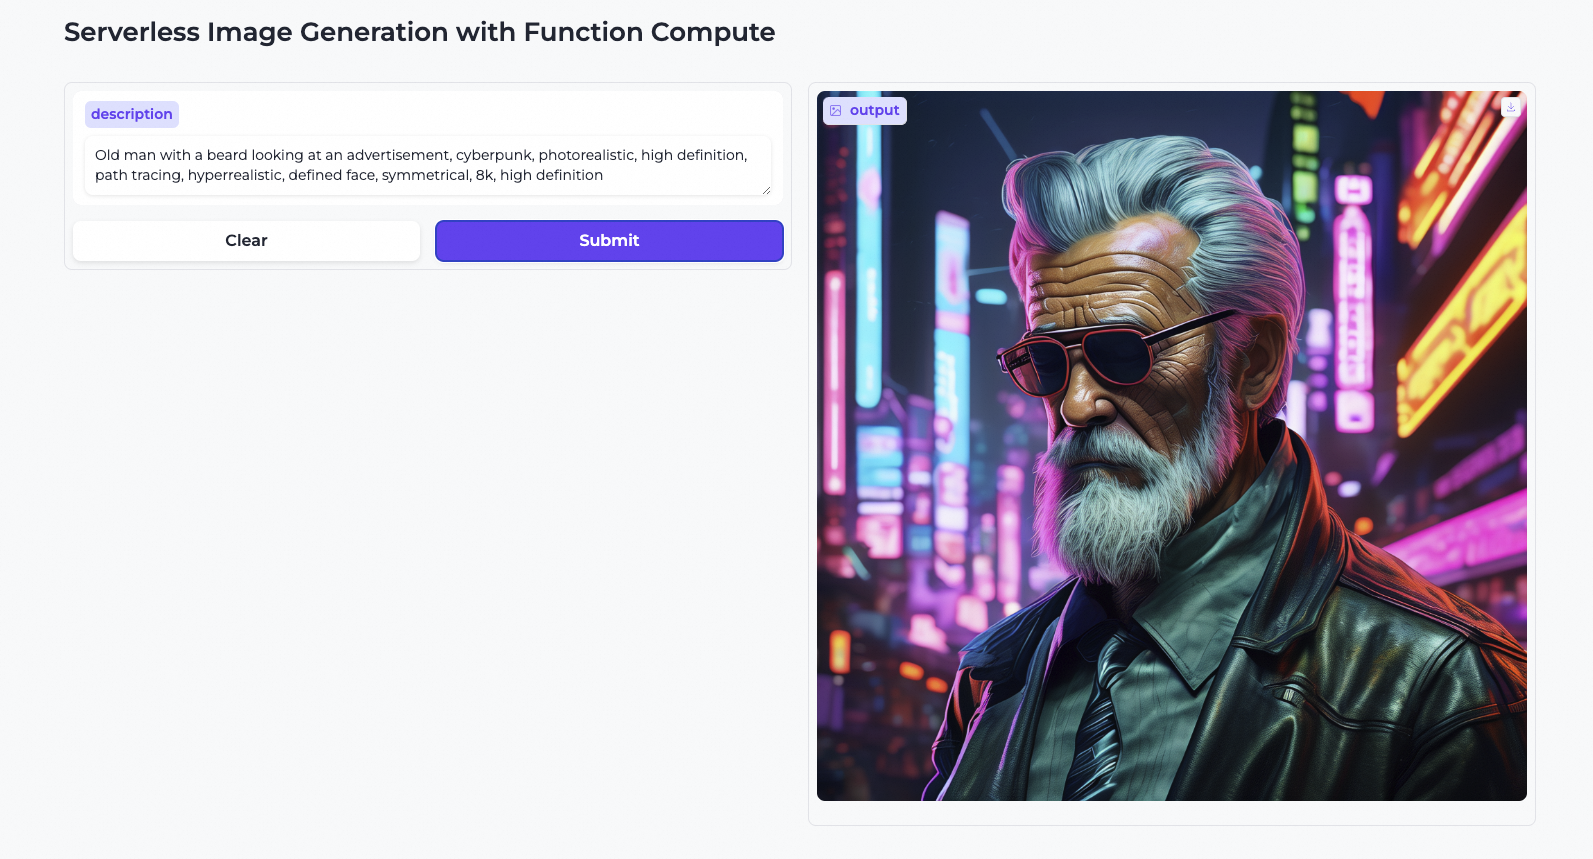
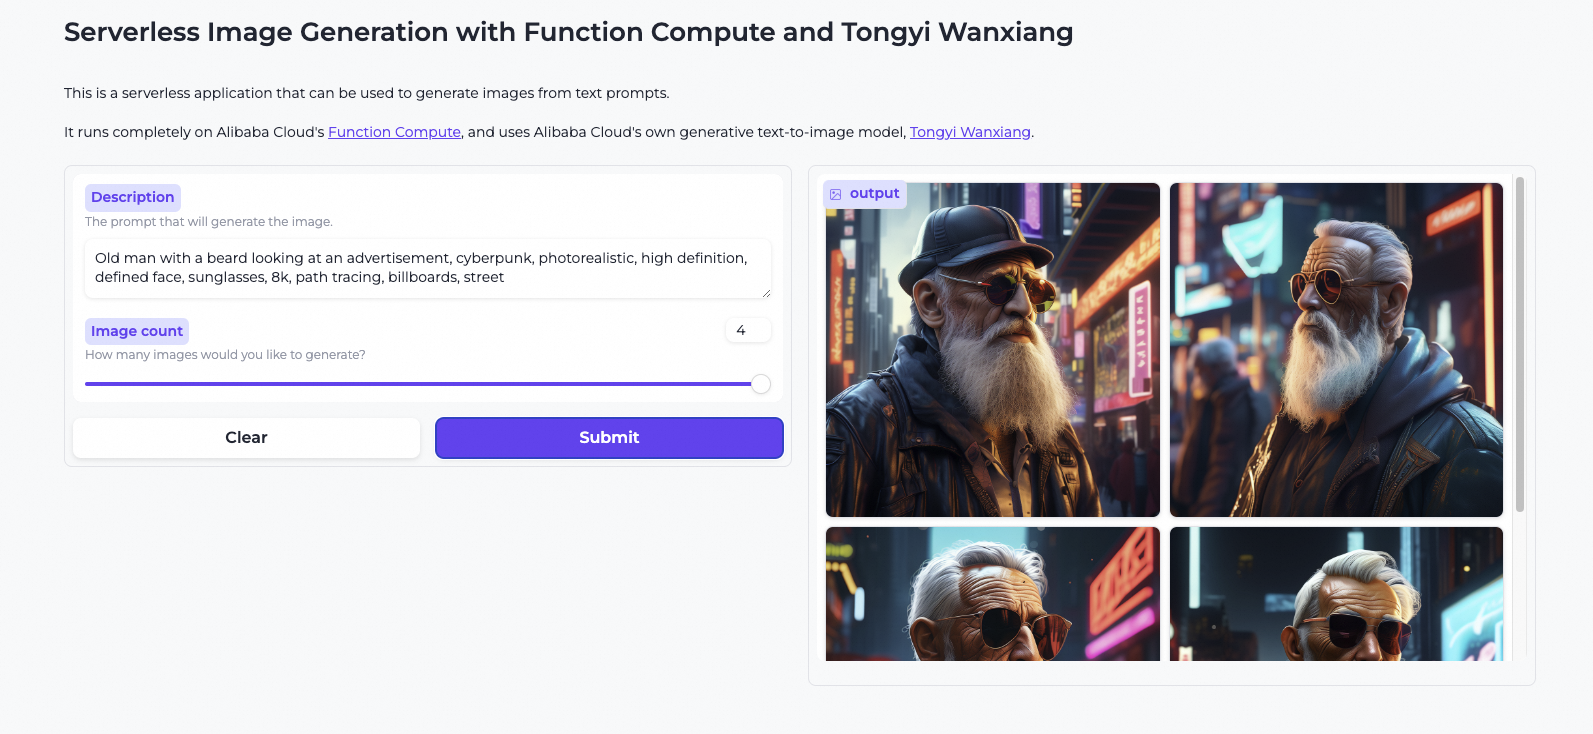
docs: update README

diff --git a/README.md b/README.md
@@ -1,8 +1,9 @@
-# Serverless Image Generation with Function Compute
+# Serverless Image Generation with Function Compute and Tongyi Wanxiang
+
 ![Example prompt](example.png)
 This is a serverless application that can be used to generate images from text prompts. It runs completely on Alibaba Cloud's [Function Compute](https://www.alibabacloud.com/product/function-compute).
 
-This project uses DashScope, Alibaba Cloud's Model as a Service (MaaS) platform, in combination with Alibaba Cloud's own generative text-to-image model, [Tongyi Wanxiang](https://www.alibabacloud.com/blog/alibaba-cloud-unveils-ai-image-generation-model-tongyi-wanxiang-to-help-businesses-to-unleash-creativity-and-productivity_600170).
+This project uses DashScope, Alibaba Cloud's Model as a Service (MaaS) platform, in combination with Alibaba Cloud's own generative text-to-image model, [Tongyi Wanxiang](https://tongyi.aliyun.com/wanxiang/).
 
 Looking for a live demo? Click [here](https://genaiwithali.cloud/).
 
@@ -18,10 +19,12 @@ You can also directly install the dependencies on your host machine with the fol
 ### Setting up environment variables
 A DashScope API key is needed. Currently, DashScope is only available to users with an Alibaba Cloud domestic account, but an international version is being worked on. You can apply for an API key [here](https://dashscope.console.aliyun.com/apiKey).
 
+#### Local development
 For local development, set an environment variable called `DASHSCOPE_API_KEY` as follows:
 
 `export DASHSCOPE_API_KEY=<YOUR API KEY>`
 
+#### Deploying to your own Alibaba Cloud account
 If you want to use the application in your own Alibaba Cloud account, you will need to deploy the application using the provided Terraform stack, which will automatically create a secret parameter called `serverless-image-generation/dashscope-api-key`. Replace the placeholder variable in this parameter with your API key using the Alibaba Cloud console or the CLI.
 
 ### Launching the application
@@ -32,10 +35,13 @@ You can launch the application with the following command:
 You will be able to view the application in your browser on `127.0.0.1:7860`.
 
 ## Infrastructure
-The infrastructure consists of a single Function Compute function and a CloudOps Orchestration Service (OOS) Secret Parameter that can be used to contain the DashScope API key. The Function Compute role has basic permissions to access the parameter.
+The infrastructure consists of a single [Function Compute](https://www.alibabacloud.com/en/product/function-compute) function and a [CloudOps Orchestration Service](https://www.alibabacloud.com/en/product/oos) Secret Parameter that can be used to store the DashScope API key. The Function Compute role has basic permissions to access the parameter.
 
 ## Deployment
+The [`alicloud`](https://registry.terraform.io/providers/aliyun/alicloud/latest/docs) Terraform provider is used to define and deploy the infrastructure.
 
 Deploy the infrastructure as follows:
 
 `terraform init && terraform apply`
+
+*Note: a custom domain name needs to be associated with the Function Compute function before you can access it through the web. Replace the placeholder `domain_name` property for the `alicloud_fc_custom_domain` resource in `modules/image_generator/main.tf` with your a domain name that you control.*
